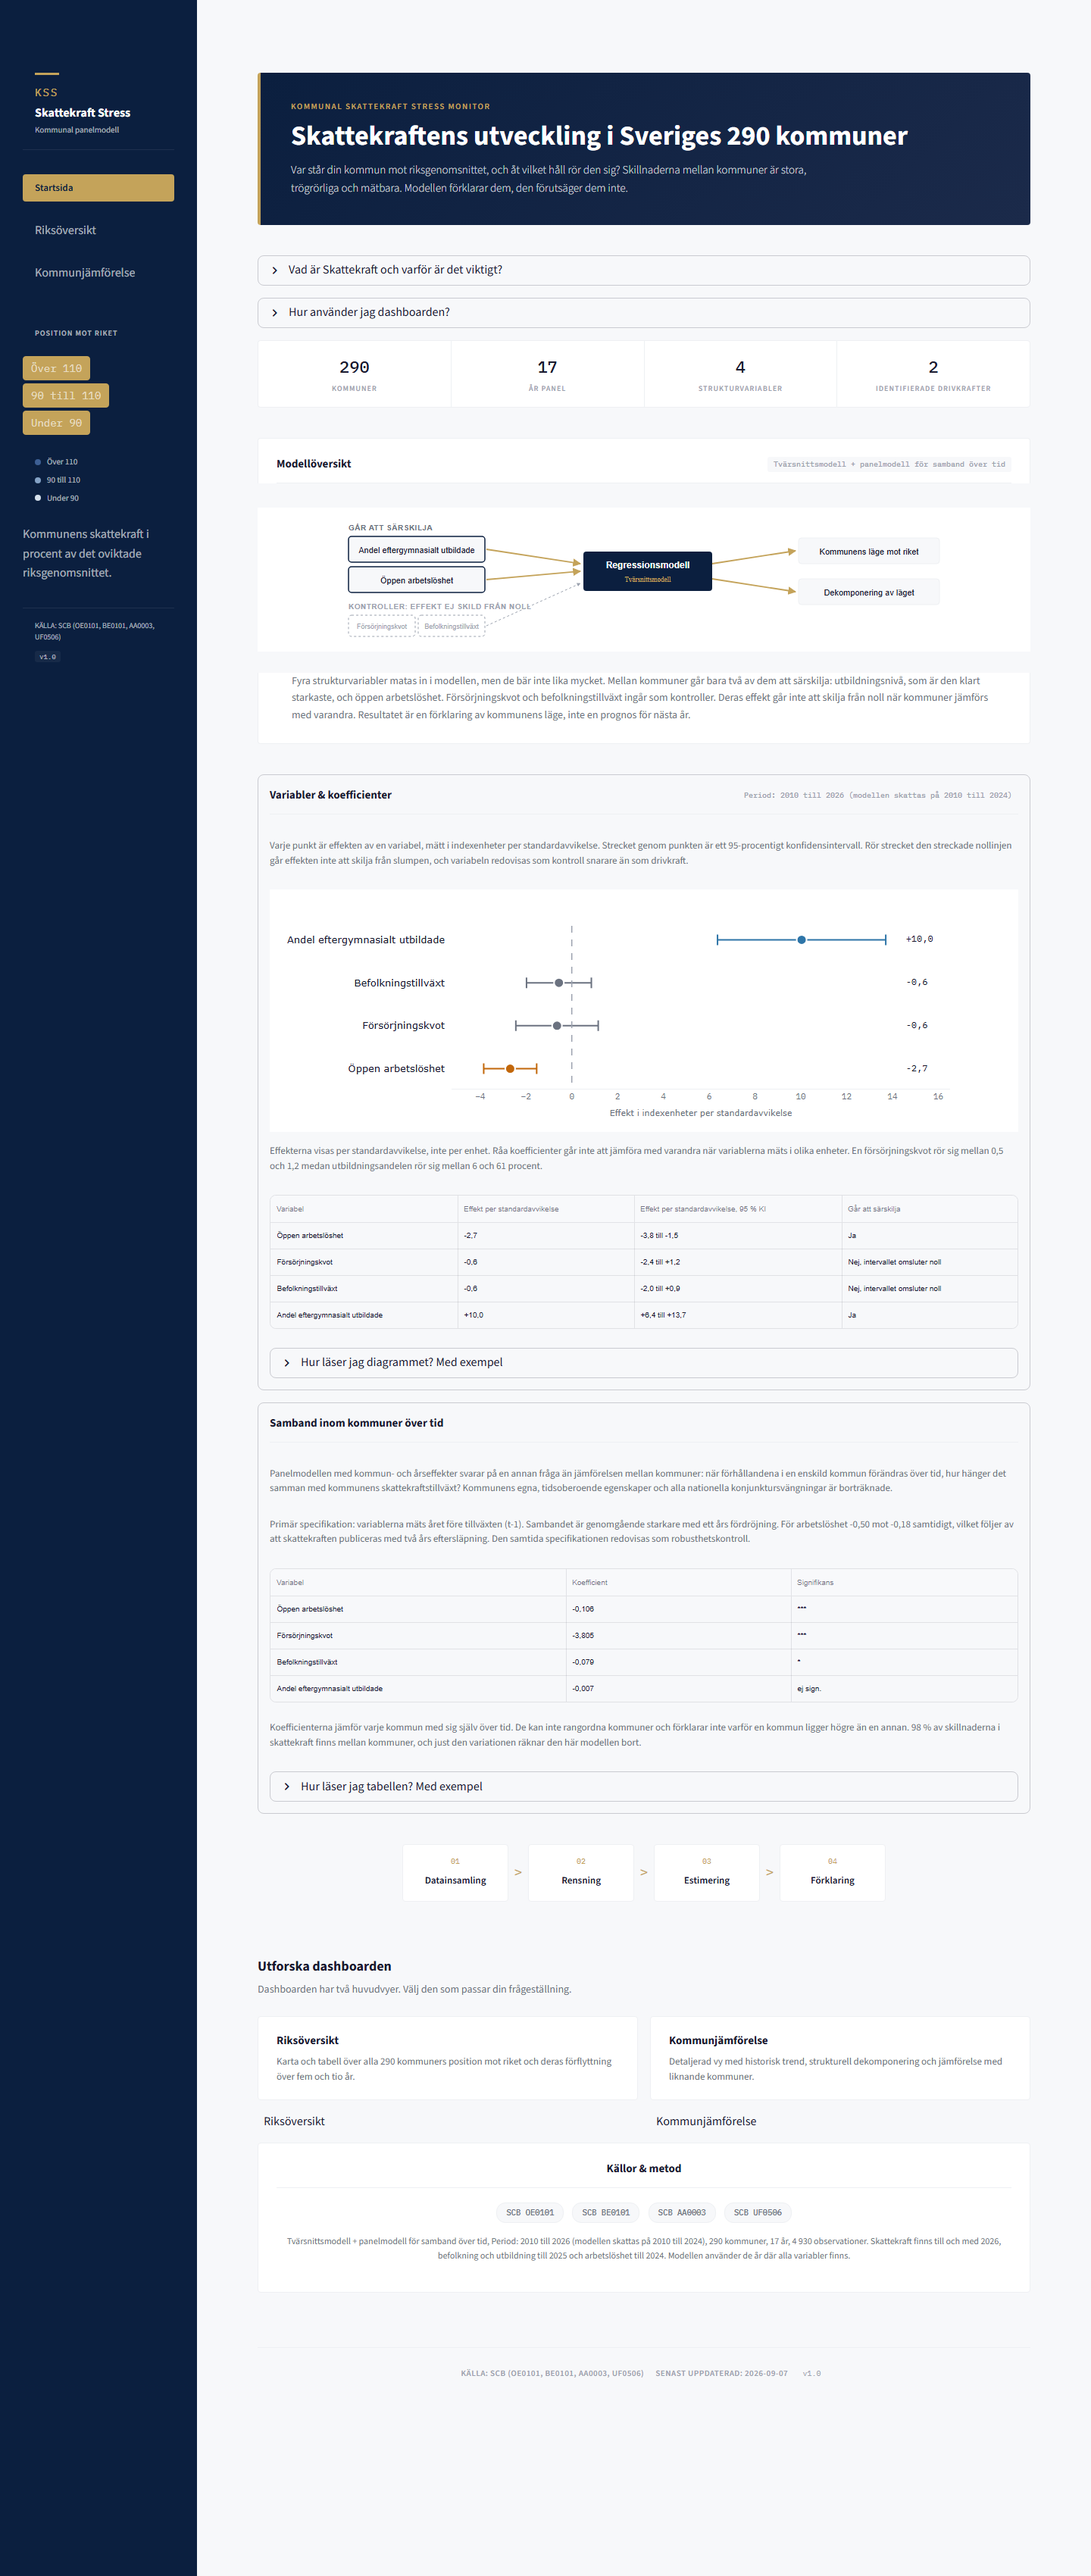
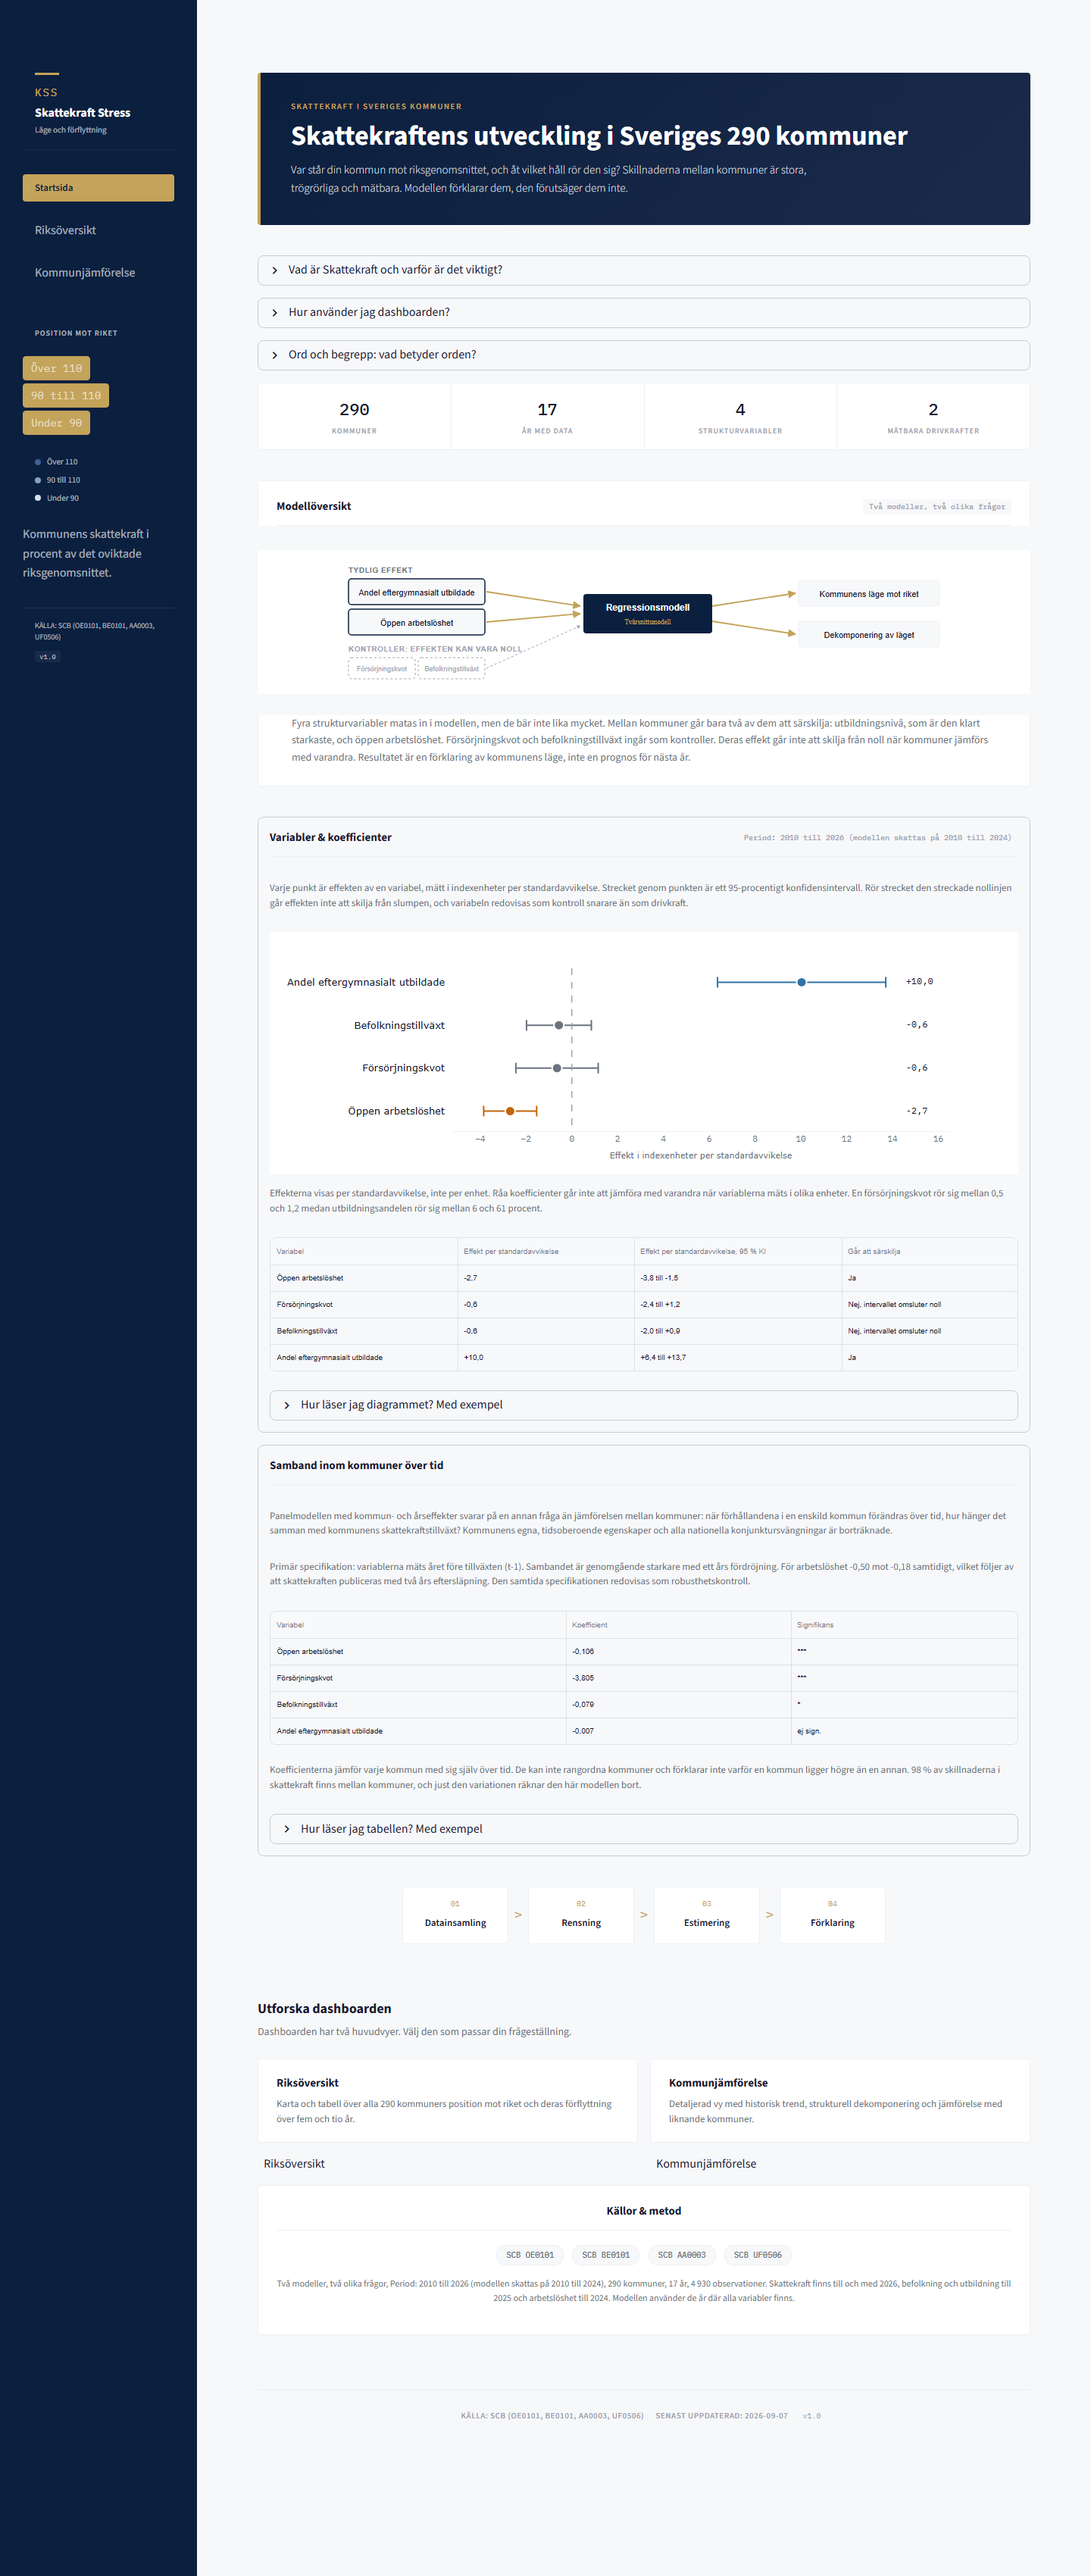
docs: add a plain-language glossary and correct the labels the project outgrew
Reviewed every string the app renders, section by section. The single biggest
gap was that nothing was ever defined. Indexenheter, forsorjningskvot,
standardavvikelse, konfidensintervall, kontrollvariabel and residual appear
dozens of times across the three pages, and a reader had to infer all of them
from context.

"Ord och begrepp" now sits beside the two expanders users already open first,
and defines every term in ordinary Swedish: what skattekraft is, what an index
point means, the difference between our unweighted average and SCB's
population-weighted one, all four variables in words rather than names, and
the five statistical terms.

Tappa mark gets its own entry, because the phrase invites exactly the wrong
reading. It means the index fell, so the kommun grew more slowly than the
country. It does not mean the tax base shrank, and the entry says so outright:
a kommun can grow in kronor every single year and still lose ground if the
others grow faster. The map legend now carries the same clarification where
the phrase is first met.

Ten labels no longer matched the project and are corrected. The eyebrow said
"KOMMUNAL SKATTEKRAFT STRESS MONITOR", which described a ranking of predicted
distress that no longer exists and mixed English into a Swedish interface. The
sidebar still called the project a panel model. "AR PANEL" was not idiomatic
Swedish. "IDENTIFIERADE DRIVKRAFTER" used identifierad in its econometric
[…]

diff --git a/src/ui/labels.py b/src/ui/labels.py
@@ -24,13 +24,13 @@ SWEDISH_LABELS = {
     # Brand and navigation
     "brand_mark": "KSS",
     "brand_title": "Skattekraft Stress",
-    "brand_sub": "Kommunal panelmodell",
+    "brand_sub": "Läge och förflyttning",
     "nav_landing": "Startsida",
     "nav_national": "Riksöversikt",
     "nav_kommun": "Kommunjämförelse",
 
     # Page eyebrows and titles
-    "eyebrow_landing": "KOMMUNAL SKATTEKRAFT STRESS MONITOR",
+    "eyebrow_landing": "SKATTEKRAFT I SVERIGES KOMMUNER",
     "eyebrow_national": "NATIONELL VY",
     "eyebrow_kommun": "KOMMUNDETALJ",
     "title_landing": "Skattekraftens utveckling i Sveriges 290 kommuner",
@@ -58,7 +58,7 @@ SWEDISH_LABELS = {
     # year, including years when every kommun's tax base grew. "Hög risk" said
     # fiscal distress; the data only ever said "lowest fifth of this ranking".
     "risk_low": "Översta femtedelen",
-    "risk_medium": "Mittersta tre femtedelar",
+    "risk_medium": "De mittersta tre femtedelarna",
     "risk_high": "Nedersta femtedelen",
 
     # KPI labels (national)
@@ -131,7 +131,7 @@ SWEDISH_LABELS = {
     "footer_method_link": "Metodologi",
 
     # Methodology callouts
-    "method_model_name": "Tvärsnittsmodell + panelmodell för samband över tid",
+    "method_model_name": "Två modeller, två olika frågor",
     "method_period": (
         "Period: 2010 till 2026 (modellen skattas på 2010 till 2024)"
     ),
@@ -146,10 +146,10 @@ SWEDISH_LABELS = {
         "Modellen förklarar dem, den förutsäger dem inte."
     ),
     "landing_stat_kommuner": "KOMMUNER",
-    "landing_stat_panel": "ÅR PANEL",
+    "landing_stat_panel": "ÅR MED DATA",
     "landing_stat_vars": "STRUKTURVARIABLER",
     "landing_stat_fe": "FIXED EFFECTS",
-    "landing_stat_identified": "IDENTIFIERADE DRIVKRAFTER",
+    "landing_stat_identified": "MÄTBARA DRIVKRAFTER",
     "landing_model_title": "Modellöversikt",
     "landing_vars_title": "Variabler & koefficienter",
     "landing_pipeline_title": "Pipelinesteg",
@@ -272,10 +272,8 @@ SWEDISH_LABELS = {
     "svg_decomposition": "Dekomponering av läget",
     # The flow diagram must not draw four equal drivers: two of the four are
     # not separately identified between kommuner (T1.2).
-    "svg_identified_heading": "GÅR ATT SÄRSKILJA",
-    "svg_controls_heading": (
-        "KONTROLLER: EFFEKT EJ SKILD FRÅN NOLL"
-    ),
+    "svg_identified_heading": "TYDLIG EFFEKT",
+    "svg_controls_heading": "KONTROLLER: EFFEKTEN KAN VARA NOLL",
     "svg_cross_section": "Tvärsnittsmodell",
     "svg_position": "Kommunens läge mot riket",
 
@@ -315,12 +313,13 @@ SWEDISH_LABELS = {
         "skala skulle ge nio kommuner av tio samma färg."
     ),
     "map_legend_drift_full": (
-        "Förändring i indexenheter de senaste fem åren. Orange = kommunen har "
-        "tappat mark mot riket, blått = vunnit mark. Skalan är centrerad på "
-        "noll och beskuren vid ±4 indexenheter."
+        "Förändring i indexenheter de senaste fem åren. Orange betyder att "
+        "kommunen tappat mark mot riket, alltså vuxit långsammare än övriga "
+        "kommuner. Det betyder inte att skattekraften minskat: en kommun kan "
+        "växa i kronor varje år och ändå tappa mark. Blått betyder vunnen "
+        "mark. Skalan är centrerad på noll och beskuren vid fyra indexenheter "
+        "åt vardera hållet."
     ),
-
-    # The two index measures have different denominators (METHODOLOGY §7.13)
     "index_compare_title": "Två mått på samma sak",
     "index_compare_explanation": (
         "Vi jämför med ett snitt där alla 290 kommuner väger lika mycket. "
@@ -410,6 +409,94 @@ SWEDISH_LABELS = {
     "identified_no": (
         "Nej, intervallet omsluter noll"
     ),
+    # A plain-language glossary. Terms like indexenheter, tappa mark,
+    # forsorjningskvot and konfidensintervall appear dozens of times across
+    # the app and were defined nowhere, so a reader had to infer them.
+    # A plain-language glossary. Terms like indexenheter, tappa mark,
+    # forsorjningskvot and konfidensintervall appear dozens of times across
+    # the app and were defined nowhere, so a reader had to infer them.
+    "glossary_expander": "Ord och begrepp: vad betyder orden?",
+    "glossary_text": (
+        "Alla ord som används i dashboarden, förklarade utan fackspråk."
+        "\n\n"
+        "**Skattekraft** är den beskattningsbara inkomsten per invånare i "
+        "kommunen. Det är summan som kommunen tar ut sin kommunalskatt på, "
+        "och därmed grunden för vad den har råd med."
+        "\n\n"
+        "**Index och indexenheter.** För att kunna jämföra kommuner räknas "
+        "skattekraften om till ett index där genomsnittet är 100. En kommun "
+        "med index 80 har alltså 80 procent av genomsnittets skattekraft. "
+        "Skillnaden mellan två indextal mäts i indexenheter: från 80 till 84 "
+        "är fyra indexenheter."
+        "\n\n"
+        "**Att tappa mark.** Förflyttning är hur mycket kommunens index har "
+        "ändrats under en period. Att tappa mark betyder att indexet har "
+        "sjunkit, alltså att kommunen vuxit långsammare än riket. Det betyder "
+        "inte att skattekraften har minskat. En kommun kan öka sin "
+        "skattekraft i kronor varje år och ändå tappa mark, om övriga "
+        "kommuner ökar mer. Att vinna mark är samma sak omvänt: kommunen har "
+        "vuxit snabbare än riket, oavsett om det gick fort eller långsamt i "
+        "kronor."
+        "\n\n"
+        "**Två genomsnitt som inte är samma sak.** Vårt index jämför med "
+        "genomsnittet av de 290 kommunerna, där varje kommun väger lika "
+        "mycket. SCB:s publicerade index jämför med riksmedelvärdet, där "
+        "varje invånare väger lika mycket, så folkrika kommuner drar upp det. "
+        "Därför ligger vårt tal alltid något högre än SCB:s. Båda är rätt, "
+        "men de svarar på olika frågor, och ett tal från det ena måttet ska "
+        "aldrig jämföras med ett tal från det andra."
+        "\n\n"
+        "**De fyra variablerna.**"
+        "\n\n"
+        "**Öppen arbetslöshet** är andelen av invånarna i arbetsför ålder som "
+        "är inskrivna som arbetslösa utan att delta i något program. Ordet "
+        "öppen betyder just att program inte räknas med."
+        "\n\n"
+        "**Försörjningskvot** är antalet invånare under 20 år plus antalet "
+        "över 64 år, delat med antalet mellan 20 och 64. Kvoten 1,0 betyder "
+        "att det går en person utanför arbetsför ålder på varje person i "
+        "arbetsför ålder. Ju högre kvot, desto färre i arbetsför ålder att "
+        "bära försörjningen."
+        "\n\n"
+        "**Befolkningstillväxt** är hur många procent folkmängden ändrats "
+        "sedan året innan."
+        "\n\n"
+        "**Andel eftergymnasialt utbildade** är andelen av invånarna 25 till "
+        "64 år som har minst tre års utbildning efter gymnasiet."
+        "\n\n"
+        "**Statistiken, i vardagliga ord.**"
+        "\n\n"
+        "**Standardavvikelse** är ett mått på hur mycket kommunerna skiljer "
+        "sig åt i en variabel. När en effekt anges per standardavvikelse "
+        "betyder det: så här mycket skiljer sig indexet om man jämför en "
+        "kommun med en annan som ligger ett normalt kliv högre i just den "
+        "variabeln. Måttet behövs för att variabler som mäts i olika enheter "
+        "ska gå att jämföra med varandra."
+        "\n\n"
+        "**Konfidensintervall** är det spann som det sanna värdet rimligen "
+        "ligger inom. Vi visar 95-procentiga intervall, vilket betyder att "
+        "fem gånger av hundra hamnar det sanna värdet utanför. Innehåller "
+        "intervallet noll kan vi inte påstå att effekten finns alls."
+        "\n\n"
+        "**Kontrollvariabel** är en variabel som finns med i modellen men "
+        "vars effekt inte går att skilja från noll. Den redovisas som en "
+        "siffra i stället för som en stapel, eftersom en stapel skulle se "
+        "säkrare ut än den är."
+        "\n\n"
+        "**Residual** är den del av kommunens avvikelse som modellen inte "
+        "förklarar. En stor residual betyder att något annat än de fyra "
+        "variablerna avgör läget."
+        "\n\n"
+        "**Prognos och intervall.** Prognosen är hur många indexenheter "
+        "kommunen väntas flytta sig på fem år. Intervallet visar hur osäker "
+        "den siffran är, och bygger på hur fel prognosen faktiskt haft när "
+        "den testats mot verkliga utfall."
+        "\n\n"
+        "**Träffsäkerhet** är hur väl prognosen träffat historiskt. Den mäts "
+        "på två sätt: hur väl den får ordningen mellan kommuner rätt, och hur "
+        "stort medelfelet är jämfört med att bara gissa genomsnittet."
+    ),
+
     "vintage_note": (
         "Position och förflyttning till {position_year} · strukturvariabler "
         "till {analysis_year} (arbetslöshet är den bindande källan)"
@@ -457,7 +544,7 @@ SWEDISH_LABELS = {
         "om vid varje startår och jämförs med vad som faktiskt hände "
         "{horizon} år senare. {origins} startår, {n} kommunår."
     ),
-    "backtest_spearman": "Rangkorrelation (Spearman)",
+    "backtest_spearman": "Hur väl ordningen stämmer",
     "backtest_rmse": "Medelfel (RMSE)",
     "backtest_naive": "Jämförelse: gissa genomsnittet",
     "backtest_persistence": "Jämförelse: anta att trenden fortsätter",

diff --git a/tests/test_labels.py b/tests/test_labels.py
@@ -300,3 +300,47 @@ def test_a_movement_that_rounds_to_nothing_has_no_sign():
     # Real movements keep theirs.
     assert format_index_points(-0.4) == "-0,4"
     assert format_index_points(0.4) == "+0,4"
+
+
+def test_no_label_contains_mojibake():
+    """A script that read its own source with the platform default encoding
+    instead of UTF-8 wrote "Ã–ppen" into the glossary. The dash test caught it
+    only by accident, because one mangled byte happened to be a dash."""
+    suspects = ("Ã", " Â", "â€", "Ã¥", "Ã¤", "Ã¶")
+    offenders = {
+        key: text[:60]
+        for key, text in SWEDISH_LABELS.items()
+        if isinstance(text, str) and any(s in text for s in suspects)
+    }
+    assert not offenders, f"mis-encoded Swedish characters: {offenders}"
+
+
+def test_the_glossary_defines_the_terms_the_app_actually_uses():
+    """Every term a reader meets without introduction should be defined in one
+    place. "Tappa mark" is the one users ask about, because it sounds like the
+    tax base shrank and it does not mean that."""
+    glossary = SWEDISH_LABELS["glossary_text"].lower()
+    for term in (
+        "skattekraft",
+        "indexenheter",
+        "tappa mark",
+        "riksmedelvärdet",
+        "öppen arbetslöshet",
+        "försörjningskvot",
+        "befolkningstillväxt",
+        "eftergymnasialt",
+        "standardavvikelse",
+        "konfidensintervall",
+        "kontrollvariabel",
+        "residual",
+        "träffsäkerhet",
+    ):
+        assert term in glossary, f"undefined in the glossary: {term}"
+
+
+def test_the_glossary_says_what_tappa_mark_does_not_mean():
+    """The distinction that matters: a kommun can grow every year in kronor and
+    still lose ground. Stating only the positive definition invites the wrong
+    reading."""
+    glossary = SWEDISH_LABELS["glossary_text"]
+    assert "Det betyder inte att skattekraften har minskat" in glossary

diff --git a/app.py b/app.py
@@ -121,6 +121,11 @@ with st.expander(SWEDISH_LABELS["concept_skattekraft_expander"]):
 with st.expander(SWEDISH_LABELS["guide_expander"]):
     st.markdown(SWEDISH_LABELS["guide_text"])
 
+# Every term the dashboard uses, in one place. Without it a reader met
+# "indexenheter", "tappa mark" and "konfidensintervall" as things to infer.
+with st.expander(SWEDISH_LABELS["glossary_expander"]):
+    st.markdown(SWEDISH_LABELS["glossary_text"])
+
 # ---------------------------------------------------------------------------
 # Section 2: Stat strip
 # ---------------------------------------------------------------------------
